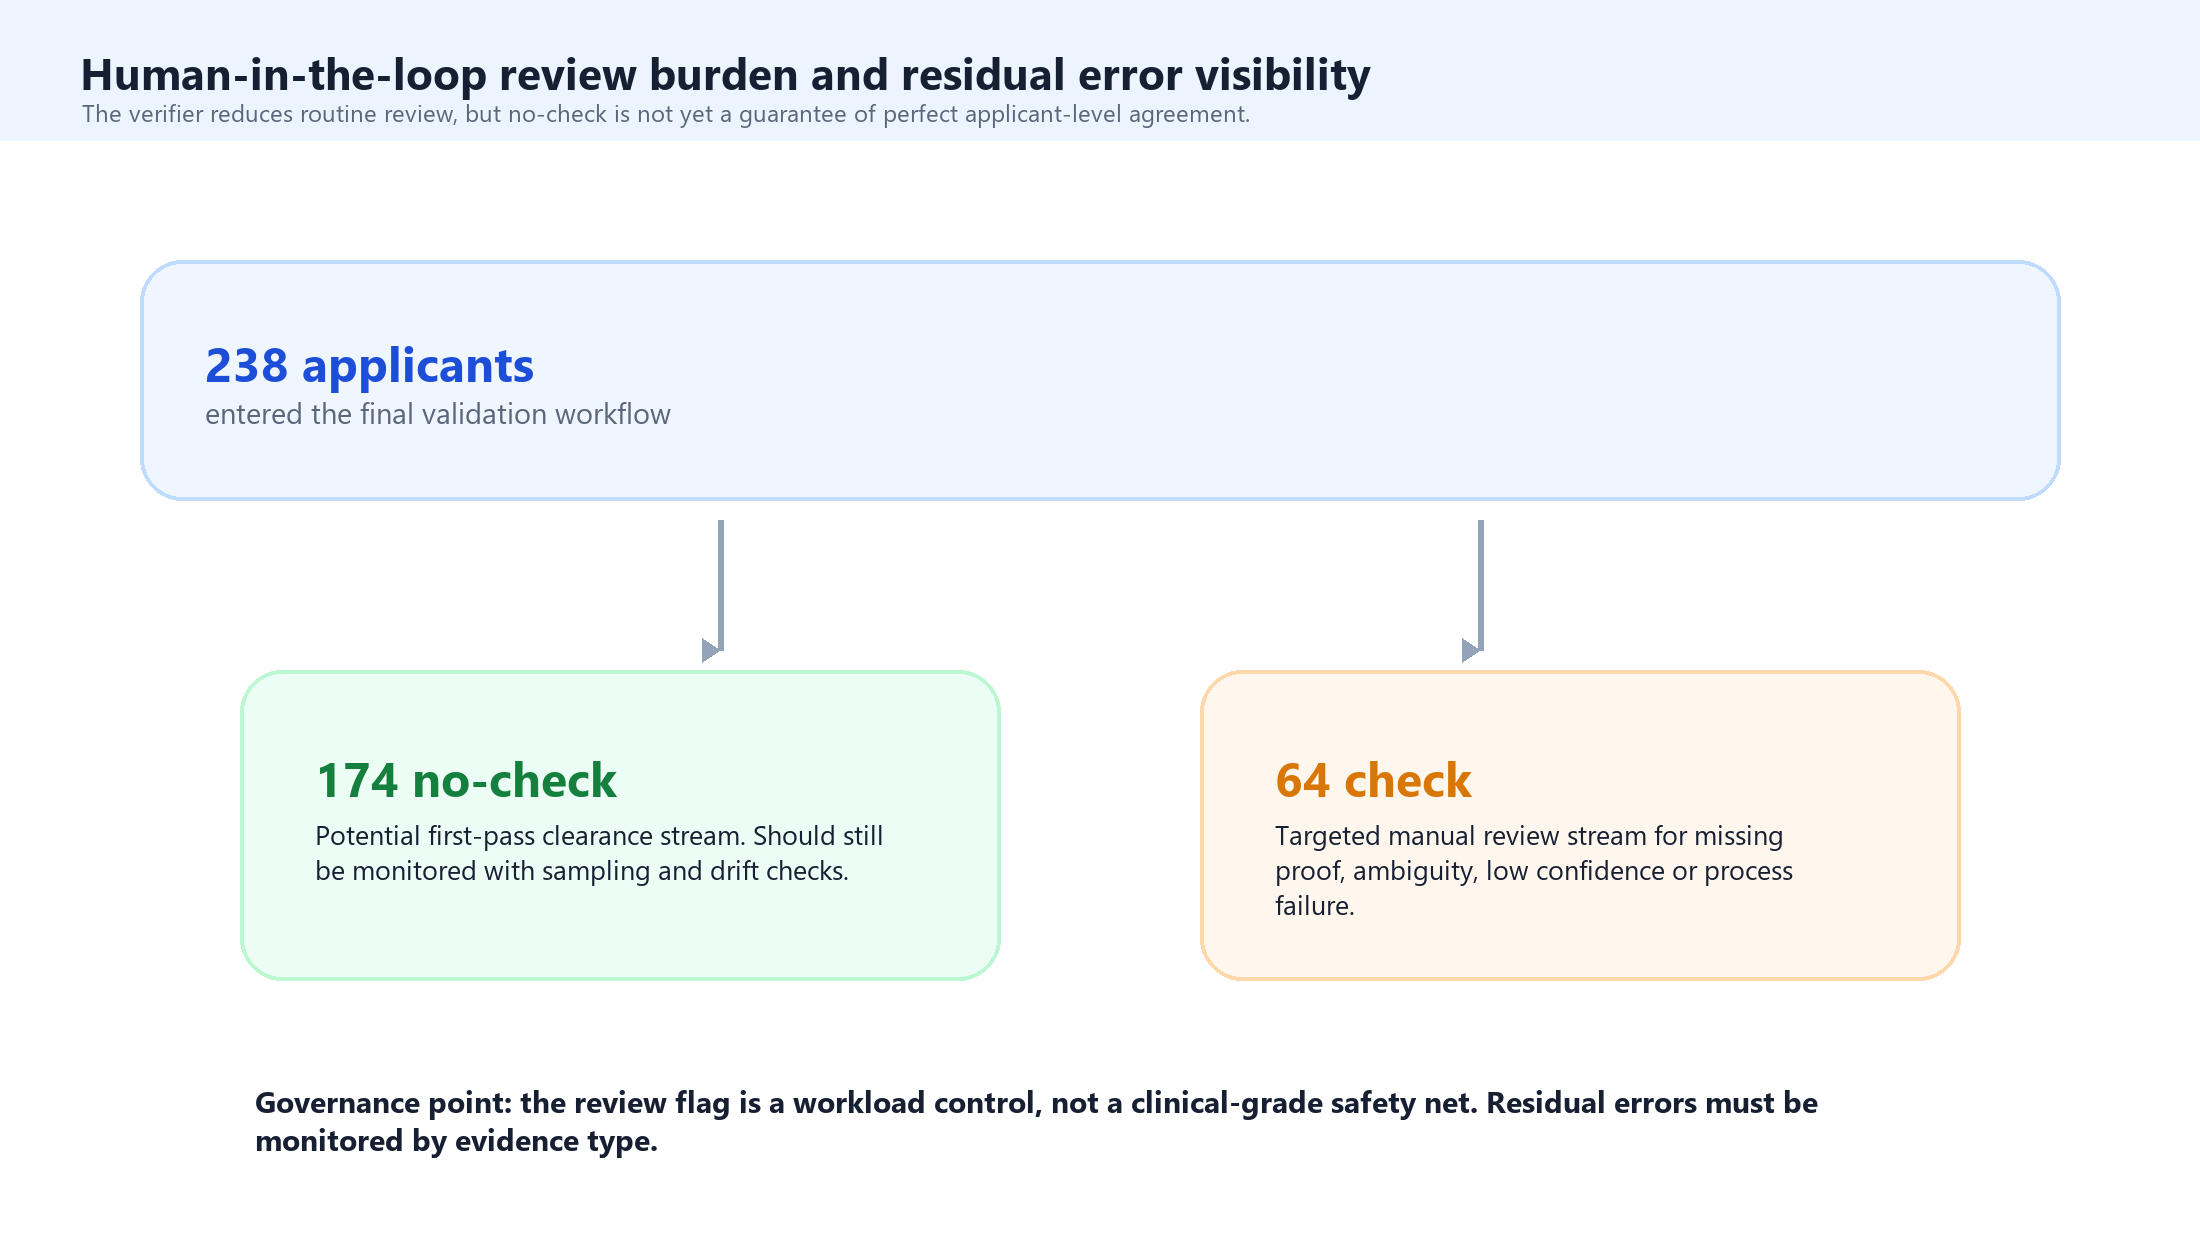
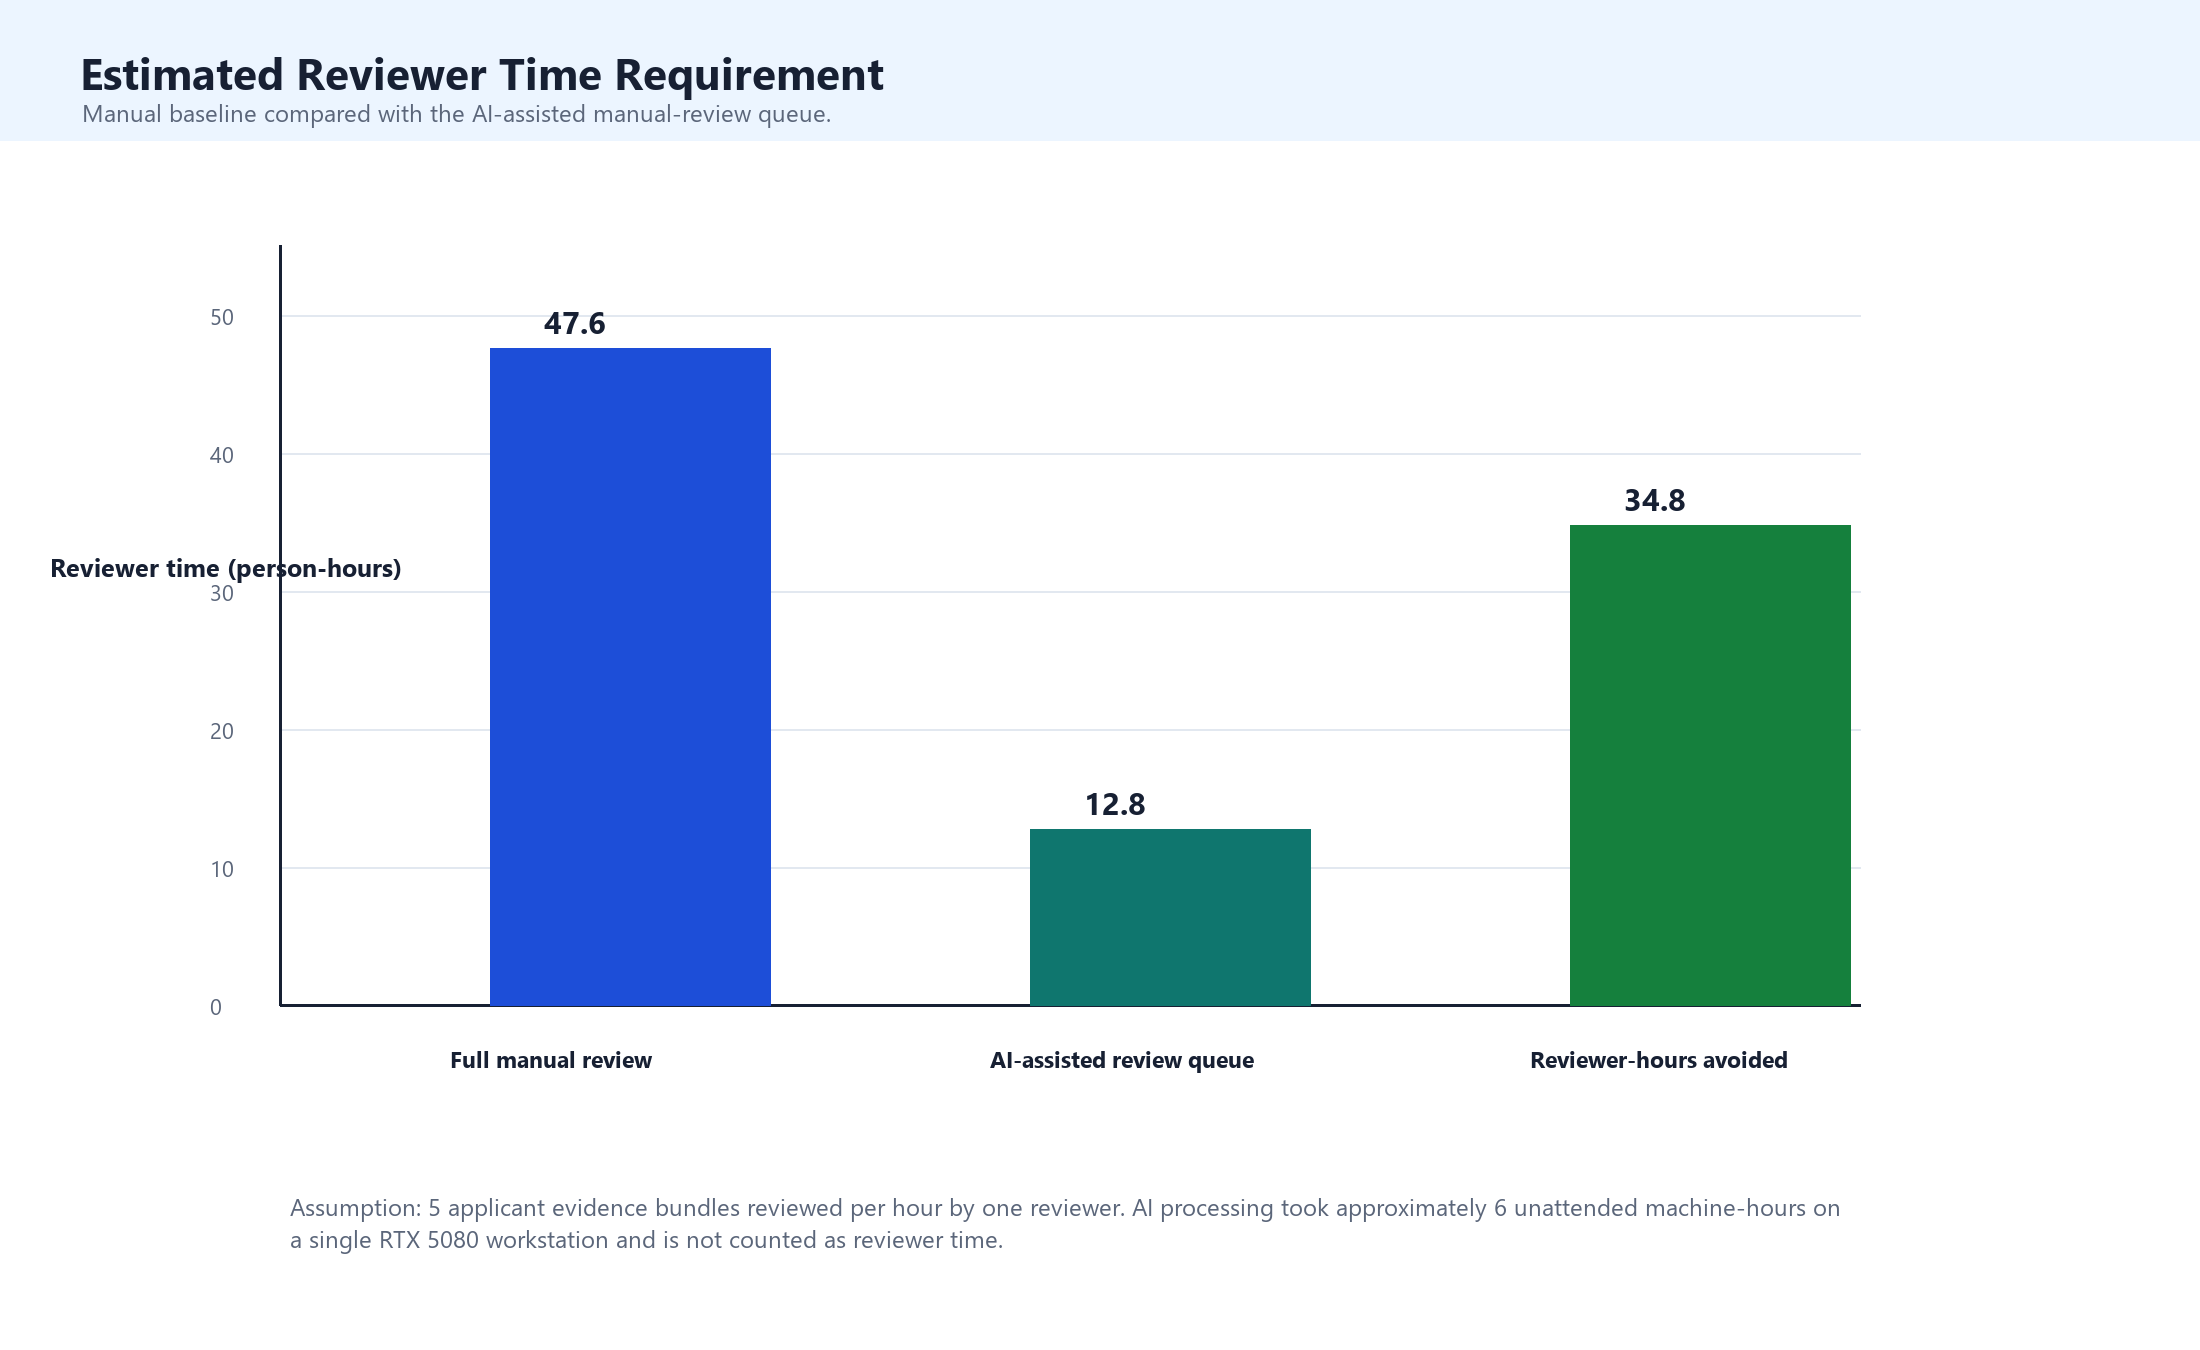
Add workload reporting and scientific result charts

diff --git a/manuscripts/eplacement_kyc_v4_1_validation/build_manuscript.py b/manuscripts/eplacement_kyc_v4_1_validation/build_manuscript.py
@@ -17,7 +17,7 @@ from PIL import Image, ImageDraw, ImageFont
 HERE = Path(__file__).resolve().parent
 WORKBOOK = Path(r"C:\Users\vivek\Downloads\eplacement_kyc_validation_analysis_v4_1.xlsx")
 MANUSCRIPT_MD = HERE / "MANUSCRIPT.md"
-OUTPUT_DOCX = HERE / "eplacement_kyc_verifier_v4_1_validation_manuscript.docx"
+OUTPUT_DOCX = HERE / "claim_guided_document_evidence_verifier_manuscript.docx"
 TABLES_DIR = HERE / "tables"
 FIGURES_DIR = HERE / "figures"
 SUMMARY_JSON = HERE / "validation_summary.json"
@@ -370,49 +370,85 @@ def create_figures() -> None:
     draw.text((845, 600), "Methodological contribution", font=font(34, True), fill=PALETTE["blue"])
     save_figure(image, "figure_5_method_shift.png")
 
-    # Figure 6: evidence type performance.
-    image, draw = canvas("Evidence-type-specific performance", "Sensitivity, specificity and F1 score from the final validation set.", size=(2300, 1500))
-    metrics = [("Sensitivity", "Sensitivity", PALETTE["blue"]), ("Specificity", "Specificity", PALETTE["teal"]), ("F1", "F1", PALETTE["amber"])]
-    labels = [str(x).replace("_", " ").replace("oku", "OKU") for x in by_evidence["Evidence type"]]
-    y0 = 260
-    row_gap = 175
+    # Figure 6: evidence type performance as a scientific grouped bar chart.
+    image, draw = canvas("Evidence-Type Performance", "Sensitivity, specificity and F1 score by proof category.", size=(2300, 1450))
+    metrics = [("Sensitivity", "Sensitivity", PALETTE["blue"]), ("Specificity", "Specificity", PALETTE["teal"]), ("F1", "F1 score", PALETTE["amber"])]
+    label_map = {
+        "marriage": "Marriage",
+        "self_illness": "Self illness",
+        "family_illness": "Family illness",
+        "spouse_location": "Spouse location",
+        "oku_self_or_family": "OKU self/family",
+        "medex_other_exam": "MedEX/other exam",
+    }
+    labels = [label_map.get(str(x), str(x).replace("_", " ").title()) for x in by_evidence["Evidence type"]]
+    chart_left, chart_top = 560, 250
+    chart_width, chart_height = 1450, 930
+    chart_bottom = chart_top + chart_height
+    for tick in range(0, 101, 20):
+        x = chart_left + int(chart_width * tick / 100)
+        draw.line((x, chart_top, x, chart_bottom), fill="#e2e8f0", width=2)
+        draw.text((x - 24, chart_bottom + 25), f"{tick}", font=font(22), fill=PALETTE["muted"])
+    draw.line((chart_left, chart_bottom, chart_left + chart_width, chart_bottom), fill=PALETTE["ink"], width=3)
+    draw.line((chart_left, chart_top, chart_left, chart_bottom), fill=PALETTE["ink"], width=3)
+    row_gap = chart_height / len(labels)
+    bar_h = 24
     for idx, label in enumerate(labels):
-        y = y0 + idx * row_gap
-        draw.text((80, y + 30), label, font=font(27, True), fill=PALETTE["ink"])
-        for m_idx, (col, title, colour) in enumerate(metrics):
-            value = float(by_evidence.iloc[idx][col])
-            x = 610 + m_idx * 510
-            draw.rounded_rectangle((x, y + 25, x + 360, y + 70), radius=18, fill="#e5e7eb")
-            draw.rounded_rectangle((x, y + 25, x + int(360 * value), y + 70), radius=18, fill=colour)
-            draw.text((x + 375, y + 20), f"{value * 100:.1f}%", font=font(24, True), fill=PALETTE["ink"])
-    for m_idx, (_, title, colour) in enumerate(metrics):
-        x = 610 + m_idx * 510
-        draw.text((x, 205), title, font=font(28, True), fill=colour)
+        row_mid = chart_top + int(row_gap * (idx + 0.5))
+        draw.text((90, row_mid - 18), label, font=font(27, True), fill=PALETTE["ink"])
+        for m_idx, (col, _, colour) in enumerate(metrics):
+            value = float(by_evidence.iloc[idx][col]) * 100
+            y = row_mid - 42 + m_idx * 30
+            x2 = chart_left + int(chart_width * value / 100)
+            draw.rectangle((chart_left, y, x2, y + bar_h), fill=colour)
+            draw.text((x2 + 12, y - 3), f"{value:.1f}", font=font(20), fill=PALETTE["ink"])
+    draw.text((chart_left + chart_width // 2 - 110, chart_bottom + 75), "Performance (%)", font=font(25, True), fill=PALETTE["ink"])
+    legend_x = 1180
+    for idx, (_, label, colour) in enumerate(metrics):
+        x = legend_x + idx * 270
+        draw.rectangle((x, 172, x + 42, 196), fill=colour)
+        draw.text((x + 55, 166), label, font=font(24), fill=PALETTE["ink"])
     save_figure(image, "figure_6_performance_by_evidence.png")
 
-    # Figure 7: review funnel.
-    image, draw = canvas("Human-in-the-loop review burden and residual error visibility", "The verifier reduces routine review, but no-check is not yet a guarantee of perfect applicant-level agreement.", size=(2200, 1250))
+    # Figure 7: manual review time as a scientific workload chart.
+    image, draw = canvas("Estimated Reviewer Time Requirement", "Manual baseline compared with the AI-assisted manual-review queue.", size=(2200, 1350))
     applicants = int(summary["applicants_matched"])
     review = int(round(float(summary["metrics"]["review_rate"]) * applicants))
-    no_check = applicants - review
-    draw.rounded_rectangle((140, 260, 2060, 500), radius=42, fill="#eff6ff", outline="#bfdbfe", width=4)
-    draw.text((205, 330), f"{applicants} applicants", font=font(48, True), fill=PALETTE["blue"])
-    draw.text((205, 392), "entered the final validation workflow", font=font(29), fill=PALETTE["muted"])
-    arrow(draw, (720, 520), (720, 650), fill="#94a3b8", width=6)
-    arrow(draw, (1480, 520), (1480, 650), fill="#94a3b8", width=6)
-    draw.rounded_rectangle((240, 670, 1000, 980), radius=42, fill="#ecfdf5", outline="#bbf7d0", width=4)
-    draw.rounded_rectangle((1200, 670, 1960, 980), radius=42, fill="#fff7ed", outline="#fed7aa", width=4)
-    draw.text((315, 745), f"{no_check} no-check", font=font(48, True), fill=PALETTE["green"])
-    draw_wrapped(draw, "Potential first-pass clearance stream. Should still be monitored with sampling and drift checks.", (315, 815), 570, font(27), fill=PALETTE["ink"])
-    draw.text((1275, 745), f"{review} check", font=font(48, True), fill=PALETTE["amber"])
-    draw_wrapped(draw, "Targeted manual review stream for missing proof, ambiguity, low confidence or process failure.", (1275, 815), 570, font(27), fill=PALETTE["ink"])
+    manual_rate_per_hour = 5
+    full_manual_hours = applicants / manual_rate_per_hour
+    assisted_hours = review / manual_rate_per_hour
+    avoided_hours = full_manual_hours - assisted_hours
+    values = [
+        ("Full manual review", full_manual_hours, PALETTE["blue"]),
+        ("AI-assisted review queue", assisted_hours, PALETTE["teal"]),
+        ("Reviewer-hours avoided", avoided_hours, PALETTE["green"]),
+    ]
+    chart_left, chart_top = 280, 245
+    chart_width, chart_height = 1580, 760
+    chart_bottom = chart_top + chart_height
+    max_value = 55
+    for tick in range(0, 56, 10):
+        y = chart_bottom - int(chart_height * tick / max_value)
+        draw.line((chart_left, y, chart_left + chart_width, y), fill="#e2e8f0", width=2)
+        draw.text((chart_left - 70, y - 14), f"{tick}", font=font(22), fill=PALETTE["muted"])
+    draw.line((chart_left, chart_bottom, chart_left + chart_width, chart_bottom), fill=PALETTE["ink"], width=3)
+    draw.line((chart_left, chart_top, chart_left, chart_bottom), fill=PALETTE["ink"], width=3)
+    bar_w = 280
+    spacing = 260
+    for idx, (label, value, colour) in enumerate(values):
+        x1 = chart_left + 210 + idx * (bar_w + spacing)
+        y1 = chart_bottom - int(chart_height * value / max_value)
+        draw.rectangle((x1, y1, x1 + bar_w, chart_bottom), fill=colour)
+        draw.text((x1 + 54, y1 - 48), f"{value:.1f}", font=font(31, True), fill=PALETTE["ink"])
+        draw_wrapped(draw, label, (x1 - 40, chart_bottom + 38), bar_w + 80, font(23, True), fill=PALETTE["ink"], line_gap=6)
+    draw.text((50, chart_top + 305), "Reviewer time (person-hours)", font=font(25, True), fill=PALETTE["ink"])
     draw_wrapped(
         draw,
-        "Governance point: the review flag is a workload control, not a clinical-grade safety net. Residual errors must be monitored by evidence type.",
-        (255, 1080),
-        1700,
-        font(30, True),
-        fill=PALETTE["ink"],
+        f"Assumption: {manual_rate_per_hour} applicant evidence bundles reviewed per hour by one reviewer. AI processing took approximately 6 unattended machine-hours on a single RTX 5080 workstation and is not counted as reviewer time.",
+        (290, 1190),
+        1560,
+        font(24),
+        fill=PALETTE["muted"],
     )
     save_figure(image, "figure_7_review_funnel.png")
 
@@ -469,6 +505,8 @@ def build_docx() -> None:
     styles = document.styles
     styles["Normal"].font.name = "Aptos"
     styles["Normal"].font.size = Pt(10)
+    styles["Normal"].paragraph_format.space_after = Pt(6)
+    styles["Normal"].paragraph_format.line_spacing = 1.08
     for style_name, size in [("Heading 1", 16), ("Heading 2", 13), ("Heading 3", 11)]:
         styles[style_name].font.name = "Aptos"
         styles[style_name].font.size = Pt(size)
@@ -489,6 +527,15 @@ def build_docx() -> None:
             continue
         flush_table()
         if not line.strip():
+            continue
+        if re.match(r"^Table\s+\d", line):
+            caption_para = document.add_paragraph()
+            caption_para.paragraph_format.space_before = Pt(8)
+            caption_para.paragraph_format.space_after = Pt(3)
+            caption_run = caption_para.add_run(line)
+            caption_run.bold = True
+            caption_run.italic = True
+            caption_run.font.size = Pt(9)
             continue
         image_match = re.match(r"^!\[(.*?)\]\((.*?)\)$", line)
         if image_match:

diff --git a/manuscripts/eplacement_kyc_v4_1_validation/MANUSCRIPT.md b/manuscripts/eplacement_kyc_v4_1_validation/MANUSCRIPT.md
@@ -5,7 +5,7 @@ Draft date: 2026-05-07
 
 ## Abstract
 
-Public-sector human-resource application systems often require people to support personal, family, health, disability, spouse-location and professional-training claims with documentary proof. This creates a recurrent administrative bottleneck: reviewers must reconcile structured form declarations with heterogeneous uploaded PDFs, many of which are scanned, multilingual, multi-page and only partly relevant. We developed a local-first, claim-guided document evidence verifier for this setting. The method first reads the applicant's declared claims, then verifies only those claimed evidence categories against the uploaded document bundle. The workflow combines deterministic claim extraction, direct PDF text extraction, optical character recognition (OCR), rendered page images, local vision-language model inference and structured proof-strength outputs within a human-in-the-loop review harness. Six proof categories were implemented: marriage, self illness, family illness, spouse location, OKU self or family, and MedEX or other examination evidence. In a retrospective validation set of 238 applicants and 1,428 applicant-evidence decisions, the verifier produced 415 true-positive, 103 false-positive, 856 true-negative and 54 false-negative decisions. Overall accuracy was 89.0%, sensitivity 88.5%, specificity 89.3%, positive predictive value 80.1%, negative predictive value 94.1% and F1 score 84.1%. The verifier routed 64 of 238 applicants (26.9%) for manual review, creating a first-pass no-check stream for 174 applicants (73.1%). The key contribution is not a single model, but an auditable AI-assisted workflow that constrains model interpretation using applicant claims, OCR-derived evidence, local multimodal inference and explicit human-review rules. The system should be understood as administrative decision support, not autonomous adjudication.
+Public-sector human-resource application systems often require people to support personal, family, health, disability, spouse-location and professional-training claims with documentary proof. This creates a recurrent administrative bottleneck: reviewers must reconcile structured form declarations with heterogeneous uploaded PDFs, many of which are scanned, multilingual, multi-page and only partly relevant. We developed a local-first, claim-guided document evidence verifier for this setting. The method first reads the applicant's declared claims, then verifies those claimed evidence categories against a single uploaded document bundle, reflecting portals where applicants enter all form data before uploading all supporting documents together at the end. The workflow combines deterministic claim extraction, direct PDF text extraction, optical character recognition (OCR), rendered page images, local vision-language model inference and structured proof-strength outputs within a human-in-the-loop review harness. Six proof categories were implemented: marriage, self illness, family illness, spouse location, OKU self or family, and MedEX or other examination evidence. In a retrospective validation set of 238 applicants and 1,428 applicant-evidence decisions, the verifier produced 415 true-positive, 103 false-positive, 856 true-negative and 54 false-negative decisions. Overall accuracy was 89.0%, sensitivity 88.5%, specificity 89.3%, positive predictive value 80.1%, negative predictive value 94.1% and F1 score 84.1%. The verifier routed 64 of 238 applicants (26.9%) for manual review. Runtime was approximately six hours on a single workstation with an NVIDIA RTX 5080 GPU and 16 GB VRAM. Assuming manual review at five applicant evidence bundles per hour, the verifier reduced expected reviewer time from 47.6 to 12.8 person-hours, avoiding approximately 34.8 reviewer-hours. The key contribution is not a single model, but an auditable AI-assisted workflow that constrains model interpretation using applicant claims, OCR-derived evidence, local multimodal inference and explicit human-review rules. The system should be understood as administrative decision support, not autonomous adjudication.
 
 Keywords: document AI; human-resource applications; evidence verification; optical character recognition; vision-language model; local-first AI; human-in-the-loop; public-sector digital health
 
@@ -15,7 +15,7 @@ Keywords: document AI; human-resource applications; evidence verification; optic
 
 Large public-sector human-resource systems routinely ask applicants to provide documentary evidence for claims that affect placement, transfer, prioritisation or review. An applicant may declare that they are married, that a spouse is posted in a particular location, that they or a family member have health needs, that disability-related consideration applies, or that a postgraduate or professional examination obligation should be recognised. These claims are administratively consequential because they influence how a workforce system balances individual circumstances against service need. In health services, this sits within a wider policy challenge: sustaining fair and transparent workforce processes while distributing personnel across facilities and geographies in ways that protect service access [1,2].
 
-The evidence-checking layer is often where the system slows down. The structured form may be legible, but the evidence bundle is rarely standardised. Applicants upload scanned marriage certificates, spouse posting letters, medical notes, hospital summaries, OKU cards, examination slips, screenshots and multi-document PDFs. Some pages have extractable text; others are image-only. Some documents are in English or Bahasa Malaysia; others contain Arabic-script or Jawi-like text, stamps, seals, tables, handwritten annotations and visual layouts that are meaningful to a human reviewer but poorly represented by OCR. Manual review is therefore still necessary, but it is repetitive, variable, difficult to scale and hard to audit consistently.
+The evidence-checking layer is often where the system slows down. The structured form may be legible, but the evidence bundle is rarely standardised. In many application portals, applicants do not upload proof at the point of data entry. They first complete all structured fields and then upload all supporting documents together in one file at the end. As a result, the reviewer receives a general-purpose document bundle rather than a neatly labelled marriage-certificate field, spouse-location field or examination-proof field. Applicants upload scanned marriage certificates, spouse posting letters, medical notes, hospital summaries, OKU cards, examination slips, screenshots and multi-document PDFs. Some pages have extractable text; others are image-only. Some documents are in English or Bahasa Malaysia; others contain Arabic-script or Jawi-like text, stamps, seals, tables, handwritten annotations and visual layouts that are meaningful to a human reviewer but poorly represented by OCR. Manual review is therefore still necessary, but it is repetitive, variable, difficult to scale and hard to audit consistently.
 
 The methodological problem is not simply PDF classification. In this setting, the real question is whether the applicant uploaded sufficient proof for what they declared. A broad classifier that scans a PDF for all possible evidence categories can create false positives because it may identify plausible evidence that the applicant did not claim. Conversely, a conservative text-only pipeline can create false negatives when a visually obvious document is scanned poorly or has weak OCR. The method developed here addresses this by making the applicant claim the organising unit of verification. The verifier first determines what needs to be checked, and only then examines the document bundle for supporting evidence.
 
@@ -23,7 +23,7 @@ This work is adjacent to, but narrower than, full electronic know-your-customer 
 
 The document AI literature provides several relevant building blocks. Open-source OCR engines such as Tesseract remain widely used for text extraction [6], while PaddleOCR and the PP-OCR family provide lightweight multilingual OCR approaches [7,8]. Transformer-based document models, including TrOCR, LayoutLMv3, Donut and GeoLayoutLM, show how document understanding can combine text, layout and image information [9-12]. Vision-language models such as Qwen2.5-VL extend this further by enabling local or server-side interpretation of document images and page layouts [13]. However, administrative evidence verification requires more than a capable model. It requires a harness that tells the model what to verify, limits the opportunity for over-labelling, preserves source evidence, and returns structured outputs that a human reviewer can inspect.
 
-We therefore report the development and retrospective evaluation of a claim-guided document evidence verifier. The objective was to build a method that could: (i) read applicant claims from structured data; (ii) inspect heterogeneous uploaded evidence; (iii) use OCR and local multimodal inference where useful; (iv) avoid labelling unclaimed categories as positive; and (v) produce auditable outputs for human review. Accuracy was measured as part of the method evaluation, but the primary contribution is the workflow design.
+We therefore report the development and retrospective evaluation of a claim-guided document evidence verifier. The objective was to build a method that could: (i) read applicant claims from structured data; (ii) inspect every image and page contained within a single uploaded evidence file; (iii) use OCR and local multimodal inference where useful; (iv) avoid labelling unclaimed categories as positive; and (v) produce auditable outputs for human review. Accuracy was measured as part of the method evaluation, but the primary contribution is the workflow design.
 
 ![Figure 2. Six proof categories used by the verifier.](figures/figure_2_evidence_taxonomy.png)
 
@@ -31,7 +31,7 @@ We therefore report the development and retrospective evaluation of a claim-guid
 
 ### Study Setting and Design
 
-We conducted a methods-development and retrospective evaluation study in a public-sector human-resource application context. The target users were operators reviewing applications from people who had entered structured form data and uploaded supporting PDFs. The method was developed for administrative proof checking rather than full identity proofing. The six target proof categories were marriage, self illness, family illness, spouse location, OKU self or family, and MedEX or other examination evidence. These categories were selected because they represent common forms of applicant-declared circumstances that require documentary substantiation.
+We conducted a methods-development and retrospective evaluation study in a public-sector human-resource application context. The target users were operators reviewing applications from people who had entered structured form data and uploaded supporting PDFs. The underlying portal workflow did not require claim-specific uploads at the point of form entry; instead, applicants entered their data first and uploaded supporting documents together as a general evidence bundle. The method was developed for administrative proof checking rather than full identity proofing. The six target proof categories were marriage, self illness, family illness, spouse location, OKU self or family, and MedEX or other examination evidence. These categories were selected because they represent common forms of applicant-declared circumstances that require documentary substantiation.
 
 Development was iterative and error-led. Early broad-classification prototypes treated the uploaded PDF as the primary object and attempted to infer all possible evidence categories from the document bundle. Error review showed that this approach was misaligned with the operational question because it could label plausible but unclaimed evidence. The final method therefore used claim-guided verification: the applicant row defined the claims to be checked, and unclaimed categories were skipped rather than classified.
 
@@ -41,13 +41,13 @@ Each applicant row was normalised into six boolean claim fields. Marriage claims
 
 The evidence definitions were deliberately operational. Marriage proof required a marriage or nikah certificate or similarly clear spouse-relationship evidence. Self-illness proof required medical evidence about the applicant. Family-illness proof required medical evidence about a spouse, child, parent, dependent or other relevant family member. Spouse-location proof required evidence of spouse workplace, posting, residence or location. OKU proof required explicit disability or OKU documentation. MedEX or other examination proof required official examination registration, attendance, result, certificate or postgraduate/specialist examination documentation; routine physical examination forms, ordinary medical check-ups and generic medical reports were not treated as examination evidence.
 
-The verifier was implemented as a local-first pipeline. Applicant spreadsheets were ingested and mapped to canonical fields. The claim extractor converted each row into the six claim booleans. The document fetcher retrieved the uploaded PDF from the original link or from a local cache. The document processor extracted direct PDF text where available and rendered page images for scanned or visually important pages. OCR was used when direct text was absent, sparse or low quality. The evidence verifier then combined deterministic rules, page-level signals, OCR-derived text and local model inference to decide whether each claimed category was supported. The final output was a reviewer-facing decision table with proof status, proof strength, supporting page, evidence summary, confidence and manual-review status.
+The verifier was implemented as a local-first pipeline. Applicant spreadsheets were ingested and mapped to canonical fields. The claim extractor converted each row into the six claim booleans. The document fetcher retrieved the uploaded PDF from the original link or from a local cache. The document processor extracted direct PDF text where available and rendered page images for scanned or visually important pages. OCR was used when direct text was absent, sparse or low quality. The vision model was then asked to read the images and pages contained within the file as a general evidence bundle, rather than assuming that each PDF corresponded to a single pre-labelled document class. The evidence verifier combined deterministic rules, page-level signals, OCR-derived text and local model inference to decide whether each claimed category was supported. The final output was a reviewer-facing decision table with proof status, proof strength, supporting page, evidence summary, confidence and manual-review status.
 
 ![Figure 3. Claim-guided document evidence workflow.](figures/figure_3_workflow.png)
 
 The OCR layer followed a direct-text-first principle to avoid unnecessary processing. If the PDF contained sufficient embedded text, that text was used directly. If not, pages were rendered as images and processed through OCR. Page-level metadata included page number, extracted text, OCR confidence where available, image path, keyword signals and candidate evidence matches. This metadata supported page shortlisting so that model calls focused on likely pages rather than scanning every page equally.
 
-The AI harness was designed as a constrained verification layer rather than a free-form chatbot. Langflow-shaped orchestration made the processing path inspectable as modular components. Ollama served the local language and vision-language model endpoint, with Qwen2.5-VL used for page-level visual verification when image evidence was required [13-15]. The prompt supplied applicant context and explicitly instructed the model to verify only categories that the applicant had claimed. Model output was parsed into a fixed schema containing proof_found, proof_strength, supporting_page, evidence_summary and confidence. The decision policy marked applicants for manual review when proof was missing, ambiguous, low confidence or affected by download, rendering or OCR failure.
+The AI harness was designed as a constrained verification layer rather than a free-form chatbot. Langflow-shaped orchestration made the processing path inspectable as modular components. Ollama served the local language and vision-language model endpoint, with Qwen2.5-VL used for page-level visual verification when image evidence was required [13-15]. The prompt supplied applicant context and explicitly instructed the model to verify only categories that the applicant had claimed. Model output was parsed into a fixed schema containing proof_found, proof_strength, supporting_page, evidence_summary and confidence. The decision policy marked applicants for manual review when proof was missing, ambiguous, low confidence or affected by download, rendering or OCR failure. All processing was performed on a single local workstation equipped with an NVIDIA RTX 5080 GPU with 16 GB VRAM; no external document understanding API was used for the validation run.
 
 This harness design was central to the method. The deterministic layer defined what needed to be checked; OCR and page rendering defined what could be read or seen; the vision-language model interpreted ambiguous or OCR-poor evidence within a bounded task; the parser converted output into structured fields; and the reviewer interface preserved human oversight. This separation of responsibilities was intended to reduce both model overreach and opaque automation.
 
@@ -55,7 +55,7 @@ This harness design was central to the method. The deterministic layer defined w
 
 ### Validation Analysis
 
-The method was evaluated against a manually adjudicated validation workbook. The analytic set contained 238 matched applicants. Each applicant contributed six applicant-evidence decisions, producing 1,428 binary decisions. Manual adjudication defined whether each evidence category was present or absent. We calculated true positives, false positives, true negatives and false negatives at the evidence-decision level, followed by accuracy, sensitivity, specificity, positive predictive value, negative predictive value and F1 score. We also calculated exact applicant-level agreement, defined as all six evidence categories matching the manual reference standard for a given applicant, and the manual review rate, defined as the proportion of applicants routed to check. Because six evidence decisions were clustered within each applicant, these metrics are interpreted as descriptive evaluation statistics rather than independent observations.
+The method was evaluated against a manually adjudicated validation workbook. The analytic set contained 238 matched applicants. Each applicant contributed six applicant-evidence decisions, producing 1,428 binary decisions. Manual adjudication defined whether each evidence category was present or absent. We calculated true positives, false positives, true negatives and false negatives at the evidence-decision level, followed by accuracy, sensitivity, specificity, positive predictive value, negative predictive value and F1 score. We also calculated exact applicant-level agreement, defined as all six evidence categories matching the manual reference standard for a given applicant, and the manual review rate, defined as the proportion of applicants routed to check. Operational workload was estimated by comparing full manual review against AI-assisted review at an assumed manual throughput of five applicant evidence bundles per hour per reviewer. Because six evidence decisions were clustered within each applicant, these metrics are interpreted as descriptive evaluation statistics rather than independent observations.
 
 ### Governance and Privacy
 
@@ -63,9 +63,11 @@ The development workflow avoided committing raw applicant PDFs, OCR caches, loca
 
 ## Results
 
-The developed method produced an operational verifier that could ingest structured applicant data, retrieve uploaded PDFs, process text and image documents, invoke local model inference within a constrained harness, and export auditable applicant-level outputs. The main development result was the shift from broad document classification to claim-guided proof verification. In practical terms, the verifier no longer asked "what is in this PDF?" It asked "does the uploaded evidence support the claims this applicant declared?" This changed the behaviour of the system by reducing the incentive to reward unclaimed categories and by making the review output more aligned with the administrative task.
+The developed method produced an operational verifier that could ingest structured applicant data, retrieve uploaded PDFs, process text and image documents, invoke local model inference within a constrained harness, and export auditable applicant-level outputs. The main development result was the shift from broad document classification to claim-guided proof verification for bundled evidence files. In practical terms, the verifier no longer asked only "what is in this PDF?" It asked "does any page or image in this uploaded bundle support the claims this applicant declared?" This changed the behaviour of the system by reducing the incentive to reward unclaimed categories and by making the review output more aligned with the administrative task.
 
-The final validation set contained 238 applicants and 1,428 evidence-level decisions. The verifier produced 415 true positives, 103 false positives, 856 true negatives and 54 false negatives. Overall accuracy was 89.0%, sensitivity 88.5%, specificity 89.3%, positive predictive value 80.1%, negative predictive value 94.1% and F1 score 84.1%. Exact applicant-level agreement was 118 of 238 applicants (49.6%). The system routed 64 applicants (26.9%) for manual review and left 174 applicants (73.1%) in the no-check stream.
+The final validation set contained 238 applicants and 1,428 evidence-level decisions. The verifier processed the full validation set in approximately six hours on the single local workstation. It produced 415 true positives, 103 false positives, 856 true negatives and 54 false negatives. Overall accuracy was 89.0%, sensitivity 88.5%, specificity 89.3%, positive predictive value 80.1%, negative predictive value 94.1% and F1 score 84.1%. Exact applicant-level agreement was 118 of 238 applicants (49.6%). The system routed 64 applicants (26.9%) for manual review and left 174 applicants (73.1%) in the no-check stream. At a manual throughput of five applicant evidence bundles per hour, full manual review of all 238 applicants would require approximately 47.6 reviewer-hours. Reviewing only the 64 flagged applicants would require approximately 12.8 reviewer-hours, corresponding to an estimated 34.8 reviewer-hours avoided, or a 73.1% reduction in direct manual review load. The six-hour runtime should be interpreted as unattended machine time rather than human reviewer time.
+
+Table 1. Overall validation performance and workload estimates for the claim-guided verifier.
 
 | Metric | Result |
 | --- | ---: |
@@ -84,8 +86,16 @@ The final validation set contained 238 applicants and 1,428 evidence-level decis
 | Exact applicant-level matches | 118 / 238 (49.6%) |
 | Applicants flagged for manual review | 64 / 238 (26.9%) |
 | Applicants not flagged for manual review | 174 / 238 (73.1%) |
+| Approximate machine runtime | 6 hours |
+| Full manual review estimate | 47.6 person-hours |
+| AI-assisted manual review estimate | 12.8 person-hours |
+| Estimated reviewer-hours avoided | 34.8 person-hours |
+
+These results show that the verifier changed the review workload primarily by reducing the number of evidence bundles requiring immediate manual inspection, while still preserving a targeted check stream.
 
 Performance varied by evidence category. Marriage evidence performed strongly, with sensitivity of 88.8%, specificity of 98.9%, positive predictive value of 99.2% and F1 score of 93.7%. MedEX or other examination evidence also performed well, with sensitivity of 91.4%, specificity of 87.9% and F1 score of 85.1%. These categories often have distinctive document structures, official titles or examination-specific vocabulary. Family illness and spouse-location evidence remained more difficult because they require relationship resolution, not merely document-type recognition. Family illness had sensitivity of 83.9% but specificity of 69.5%, while spouse location had sensitivity of 98.1% and specificity of 75.4%. This suggests that the verifier was effective at detecting possible relational evidence, but sometimes over-called documents where the relationship or purpose of the document was not sufficiently clear.
+
+Table 2. Evidence-level validation counts by proof category.
 
 | Evidence type | Manual positives | AI positives | TP | FP | TN | FN |
 | --- | ---: | ---: | ---: | ---: | ---: | ---: |
@@ -95,6 +105,10 @@ Performance varied by evidence category. Marriage evidence performed strongly, w
 | Spouse location | 108 | 138 | 106 | 32 | 98 | 2 |
 | OKU self or family | 15 | 12 | 11 | 1 | 222 | 4 |
 | MedEX or other exam | 81 | 93 | 74 | 19 | 138 | 7 |
+
+The count-level results show that most residual false-positive burden arose from relational categories, particularly family illness and spouse location.
+
+Table 3. Evidence-level validation performance by proof category.
 
 | Evidence type | Accuracy | Sensitivity | Specificity | PPV | NPV | F1 |
 | --- | ---: | ---: | ---: | ---: | ---: | ---: |
@@ -109,6 +123,8 @@ Performance varied by evidence category. Marriage evidence performed strongly, w
 
 The manual review flag created a smaller operational review queue, but it did not identify every residual error. Among applicants with at least one evidence-level error, 34 of 120 were flagged for review. Among applicants with at least one false negative, 25 of 48 were flagged. This distinction matters: check_required is a workflow-control signal, not a guarantee that all no-check records are error-free.
 
+Table 4. Manual-review flag behaviour among evidence-level errors and applicant-level error groups.
+
 | Error or review group | Total | Flagged for review | Percentage flagged |
 | --- | ---: | ---: | ---: |
 | False-positive evidence decisions | 103 | 19 | 18.4% |
@@ -118,7 +134,9 @@ The manual review flag created a smaller operational review queue, but it did no
 | Applicants with any evidence-level error | 120 | 34 | 28.3% |
 | All applicants | 238 | 64 | 26.9% |
 
-![Figure 7. Human-in-the-loop review burden and residual error visibility.](figures/figure_7_review_funnel.png)
+The operational interpretation is therefore two-sided: the system reduced immediate reviewer workload, but the no-check stream still requires monitoring, sampling and periodic recalibration.
+
+![Figure 7. Estimated manual reviewer time under full manual and AI-assisted review.](figures/figure_7_review_funnel.png)
 
 ## Discussion
 

diff --git a/manuscripts/eplacement_kyc_v4_1_validation/README.md b/manuscripts/eplacement_kyc_v4_1_validation/README.md
@@ -10,7 +10,7 @@ This folder contains the manuscript draft for the final validation of the eplace
 - `editable_figures_1_4.pptx`: editable PowerPoint version of Figures 1-4, built with native PPT shapes and text.
 - `validation_summary.json`: generated validation metrics extracted from the final validation workbook.
 - `tables/`: generated CSV copies of key validation tables.
-- `eplacement_kyc_verifier_v4_1_validation_manuscript.docx`: generated Word manuscript.
+- `claim_guided_document_evidence_verifier_manuscript.docx`: generated Word manuscript.
 
 ## Source Files Used
 